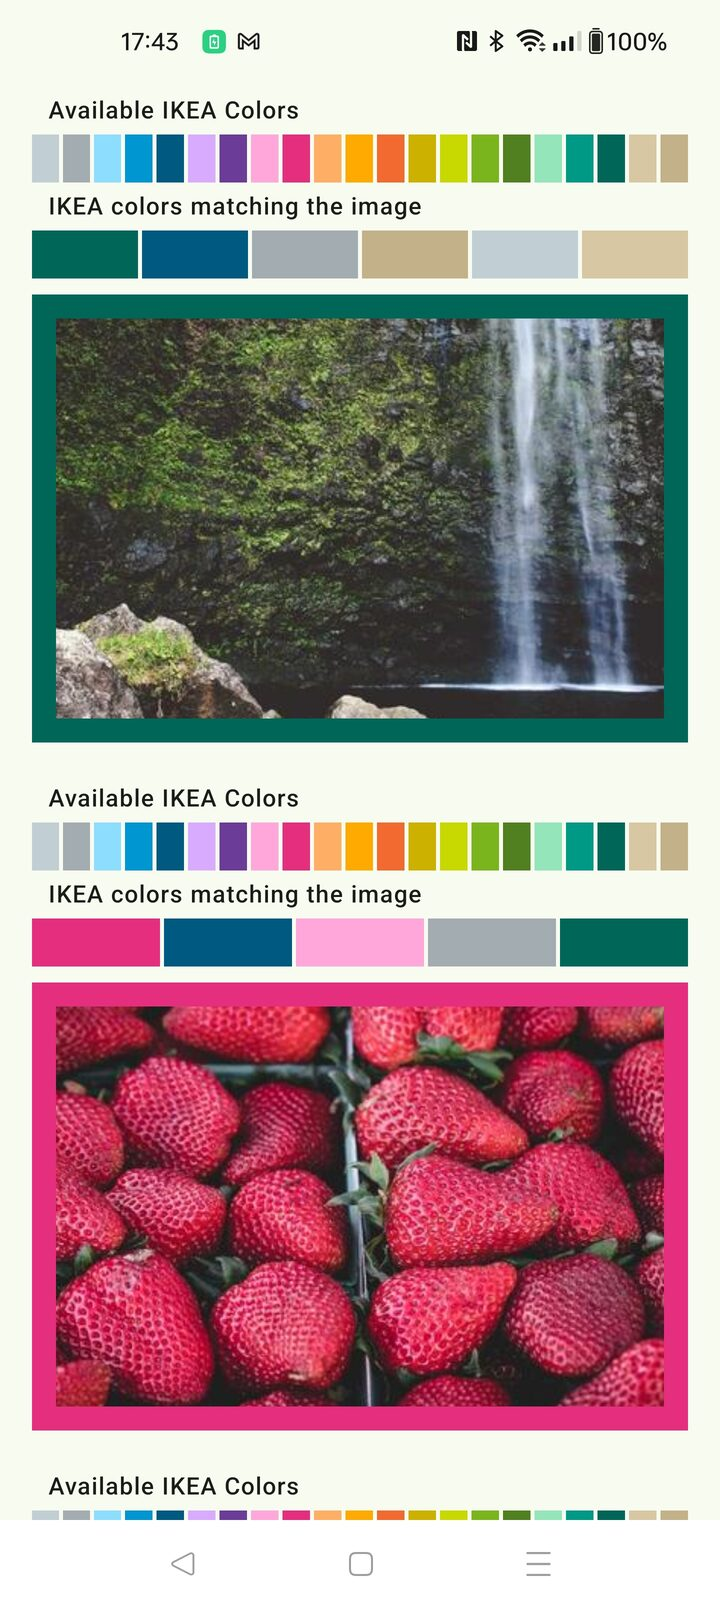
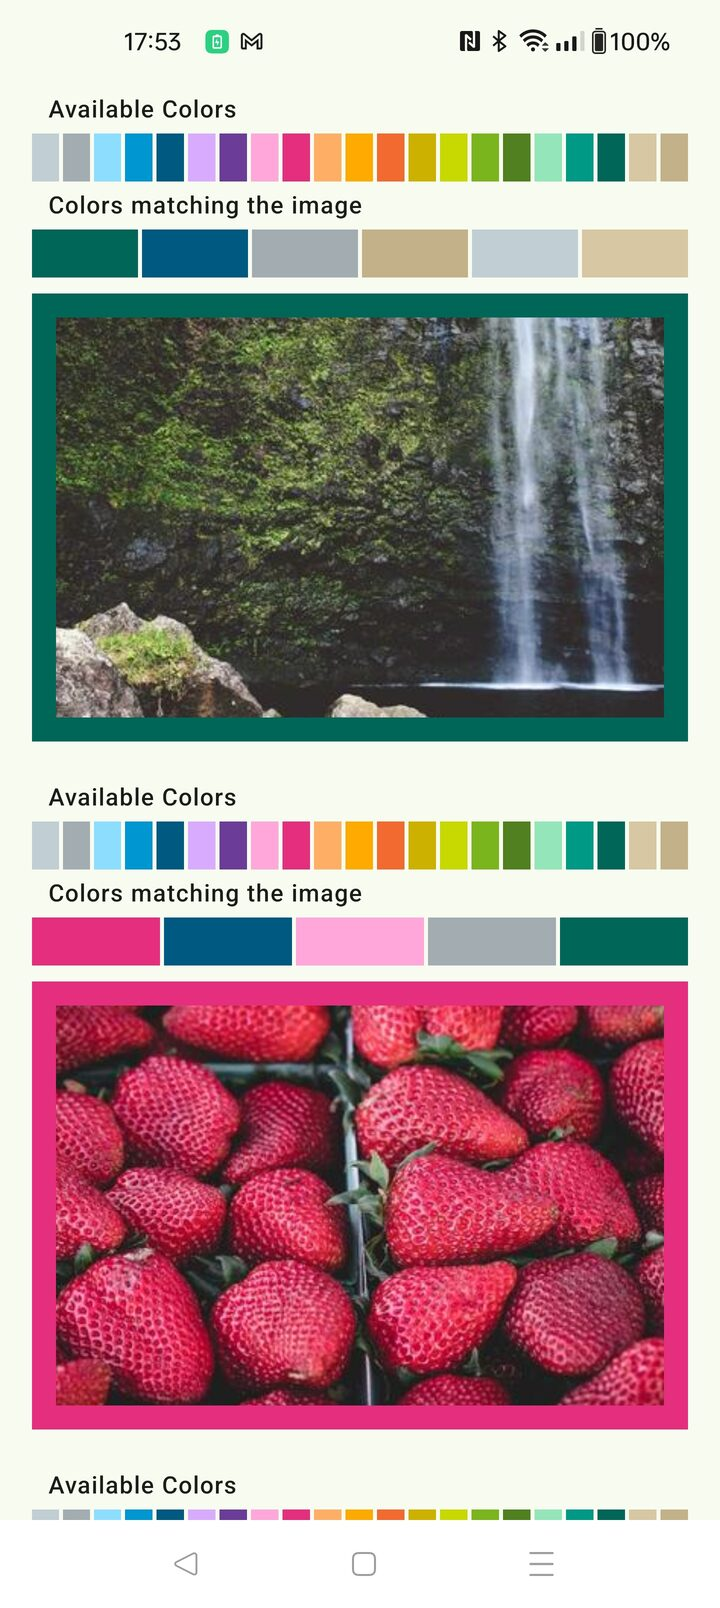
Update ColorMatch description and screenshots

diff --git a/index.html b/index.html
@@ -278,7 +278,7 @@
           <span class="status archived">Archived</span>
         </div>
         <h3><a href="https://github.com/carlemil/ColorMatch">ColorMatch</a></h3>
-        <p>An Android app where you try to match a color to an image.</p>
+        <p>An Android app that tries to match a color from a given set to a dominant color in an image.</p>
         <div class="links">
           <button type="button" data-images="assets/colormatch-1.jpg,assets/colormatch-2.jpg">Screenshots</button>
           <a href="https://github.com/carlemil/ColorMatch">GitHub</a>